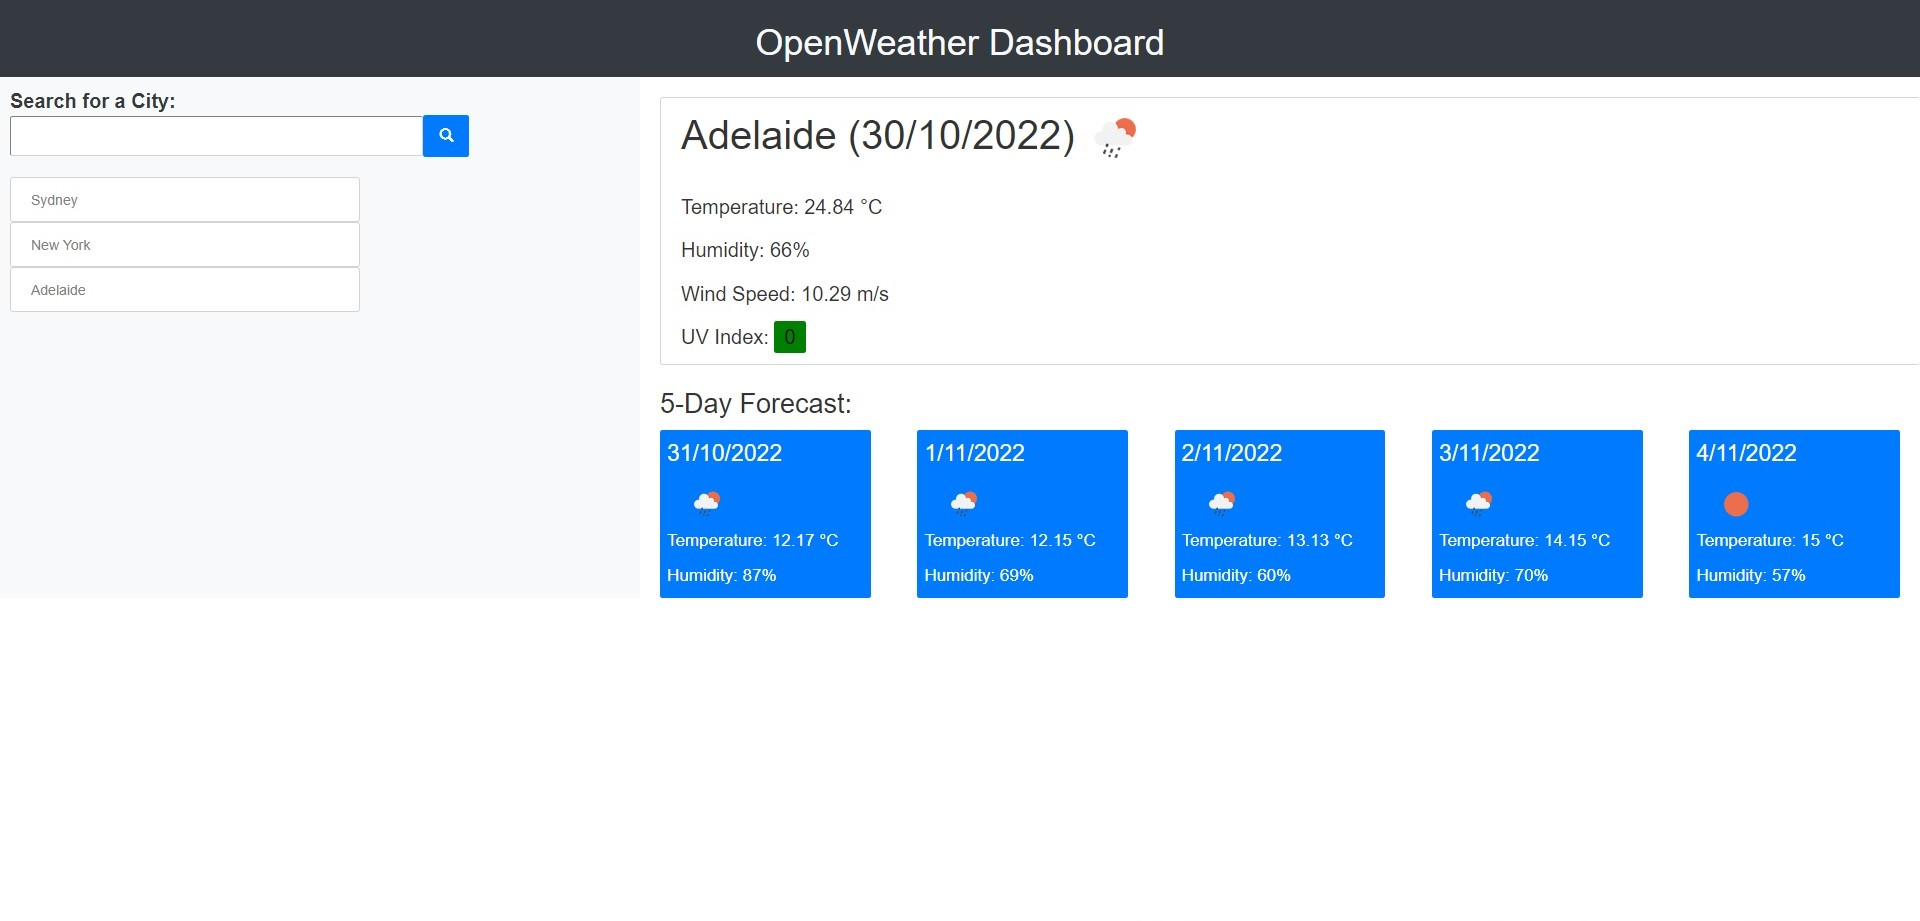
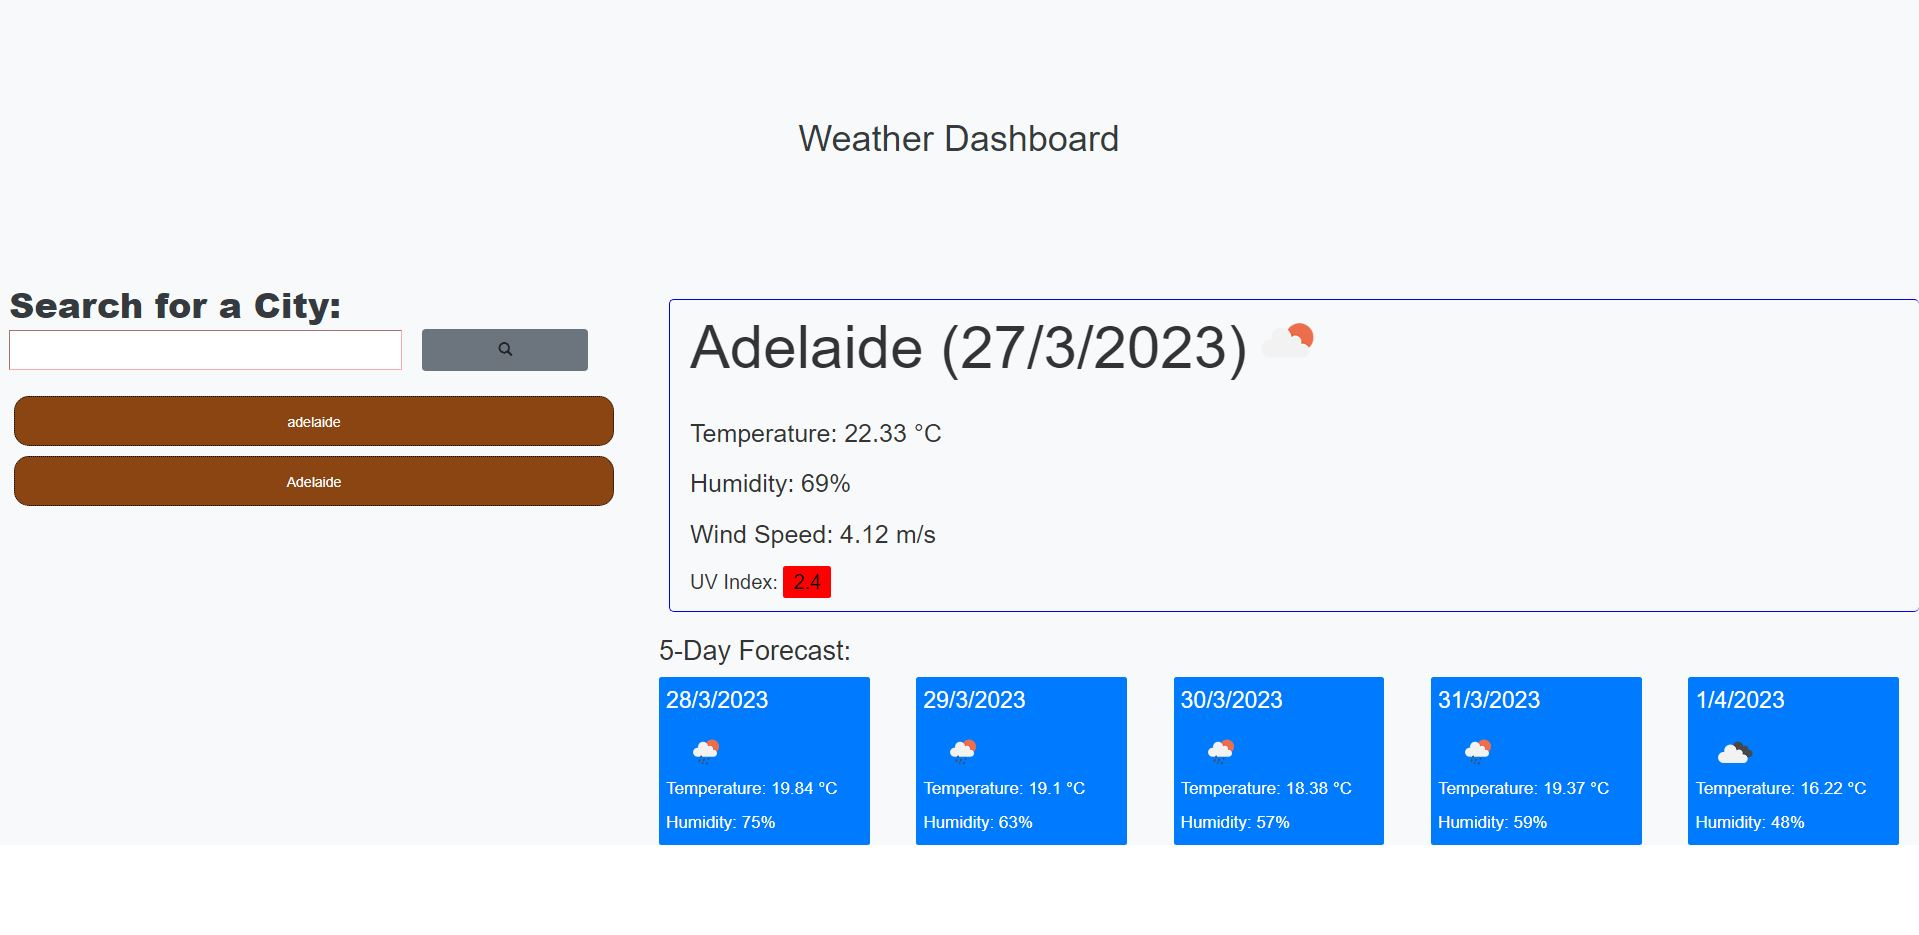
final commit of recreate of challenge 6

diff --git a/index.html b/index.html
@@ -9,13 +9,13 @@
     href="https://maxcdn.bootstrapcdn.com/bootstrap/3.4.0/css/bootstrap.min.css">
     <link rel="stylesheet" href="https://cdnjs.cloudflare.com/ajax/libs/weather-icons/2.0.10/css/weather-icons.min.css">
     <link rel="stylesheet" href="./assets/style.css">
-    <title>OpenWeather Dashboard</title>
+    <title>Weather Dashboard</title>
 </head>
 
 <body class="body">
     <header class="header">
-        <div class="h1-container d-flex translate-middle bg-dark justify-content-center">
-            <h1 class="h1 text-light">OpenWeather Dashboard</h1>
+        <div class="h1-container d-flex bg-light justify-content-center">
+            <h1 class="h1 text-dark">Weather Dashboard</h1>
         </div>
     </header>
 
@@ -28,27 +28,24 @@
                             <div class="row m-0">
                                 <label for="search-input" class="search-label m-0 text-dark">Search for a City:</label>
                             </div>
-                            <!-- search input and button -->
                             <div class="row m-0">
                                 <div class="col-sm-8 p-0 my-auto">
-                                    <input type="text" id="search-input" name="search-input" class="search-input rounded">
+                                    <input type="text" id="search-input" name="search-input" class="search-input">
                                 </div>
                                 <div class="col-sm-4 p-0">
-                                    <button type="submit" class="btn bg-primary rounded search-button">
+                                    <button type="submit" class="btn bg-secondary search-button">
                                         <span class="glyphicon glyphicon-search"></span>
                                     </button>
                                 </div>
                             </div>
                         </form>
                     </div>
-                    <!-- search history -->
                     <div id="search-history-container" class="row m-0 search-history-container">
   
                     </div>
                 </div>
     
-                <div class="col-sm-8 p-0">
-                    <!-- current weather container -->
+                <div class="col-sm-8 p-0 bg-light">
                     <div id="current-weather-container" class="row d-block">
                         <div class="current-title-container">
                             <h2 id="current-title" class="current-title d-inline"></h2>
@@ -60,7 +57,7 @@
                         <p class="current-uv-index" id="current-uv-index"></p>
                         <p class="current-number rounded" id="current-number"></p>
                     </div>
-                    <!-- 5 day forecast -->
+
                     <div class="row future-forecast-container d-block">
                         <h2 class="future-forecast-title" id="future-forecast-title"></h2>
                         <div id="forecasts-cards-container" class="forecasts-cards-container d-flex justify-content-between">

diff --git a/assets/script.js b/assets/script.js
@@ -145,7 +145,6 @@ var fiveDayForecastSection = function(cityName) {
 $("#search-form").on("submit", function() {
     event.preventDefault();
     
-    // get city name
     var cityName = $("#search-input").val();
 
     if (cityName === "" || cityName == null) {
